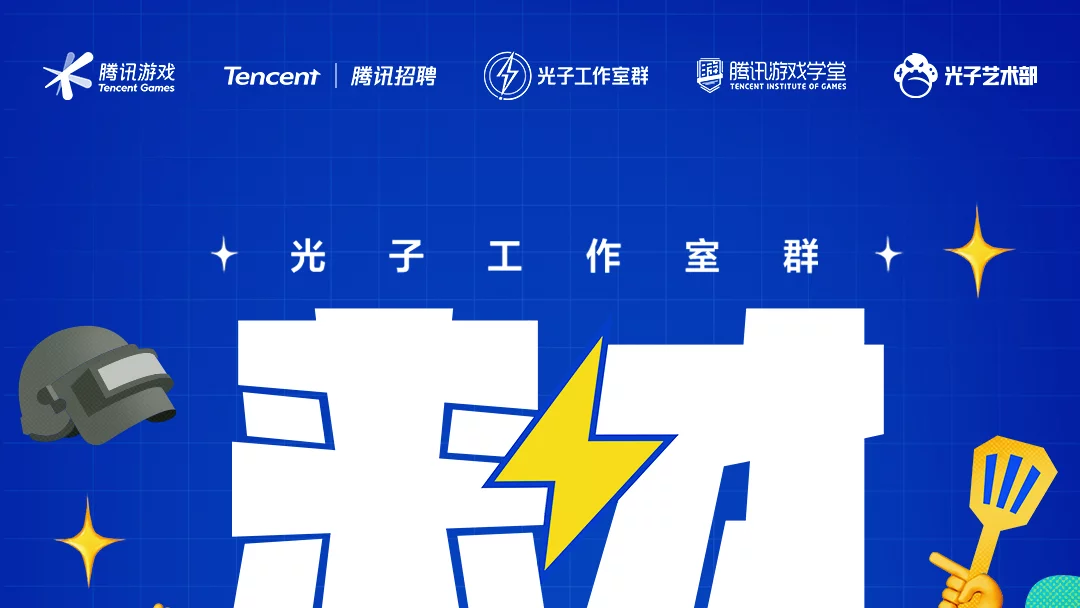
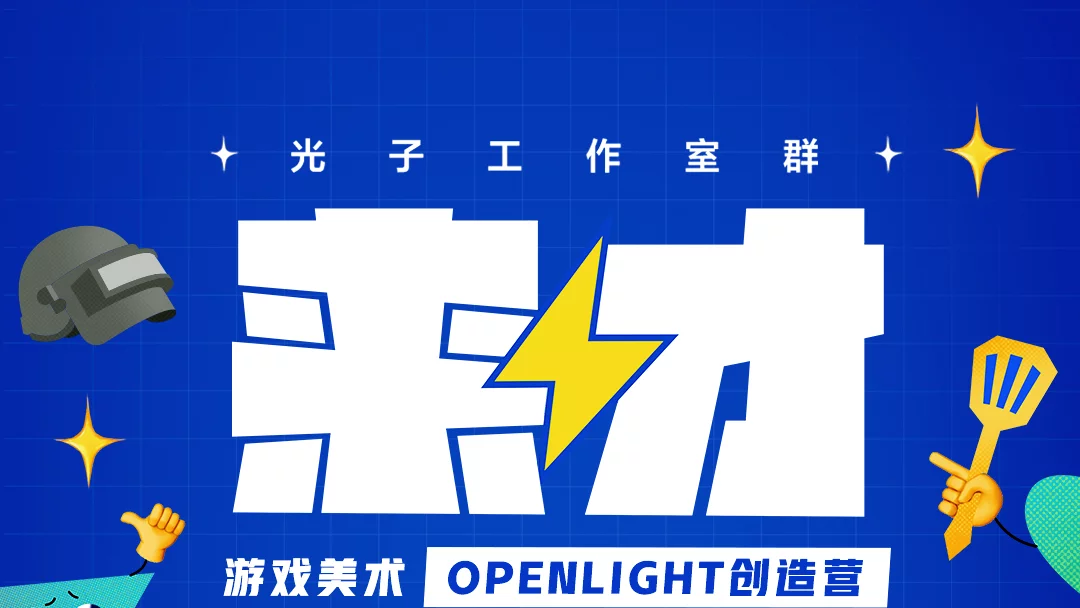
feat: 项目缩略图点击查看完整大图 + 裁切下移
- 光子训练营缩略图 y偏移100px裁切
- 点击项目卡片缩略图→灯箱展示完整原图
- 灯箱prev/next按钮自动隐藏

diff --git a/js/main.js b/js/main.js
@@ -149,7 +149,26 @@
     if (e.key === "Escape"){ if (vm.classList.contains("open")) closeVideo(); if (lightbox.classList.contains("open")) closeLightbox(); }
   });
 
+  /* ---------- 项目缩略图点击查看大图 ---------- */
+  document.addEventListener("click", function(e){
+    var thumb = e.target.closest(".project-thumb");
+    if (!thumb) return;
+    var fullSrc = thumb.getAttribute("data-full-img");
+    if (!fullSrc) return;
+    e.preventDefault();
+    openLightboxDirect(fullSrc, thumb.querySelector(".project-thumb-label")?.textContent || "");
+  });
+
   /* ---------- 图片灯箱 ---------- */
+  function openLightboxDirect(src, caption){
+    lbImg.src = src;
+    lbCap.textContent = caption;
+    document.getElementById("lbPrev").style.display = "none";
+    document.getElementById("lbNext").style.display = "none";
+    lightbox.classList.add("open");
+    lightbox.setAttribute("aria-hidden", "false");
+    document.body.style.overflow = "hidden";
+  }
   function openLightboxAt(w){
     var i = IMAGE_WORKS.indexOf(w);
     if (i < 0) return;
@@ -172,6 +191,8 @@
   function closeLightbox(){
     lightbox.classList.remove("open");
     lightbox.setAttribute("aria-hidden", "true");
+    document.getElementById("lbPrev").style.display = "";
+    document.getElementById("lbNext").style.display = "";
     document.body.style.overflow = "";
   }
   document.getElementById("lbClose").addEventListener("click", closeLightbox);

diff --git a/index.html b/index.html
@@ -130,7 +130,7 @@
       </div>
     </article>
     <article class="project-card reveal">
-      <div class="project-thumb" style="background:linear-gradient(135deg,#0e1a2a,#1a3045,#0a1420)">
+      <div class="project-thumb" style="background:linear-gradient(135deg,#0e1a2a,#1a3045,#0a1420)" data-full-img="assets/images/projects/photon-training-full.webp">
         <img class="project-thumb-img" src="assets/images/projects/photon-training.webp" alt="光子训练营">
         <span class="project-thumb-icon">💡</span>
         <span class="project-thumb-label">光子训练营</span>
